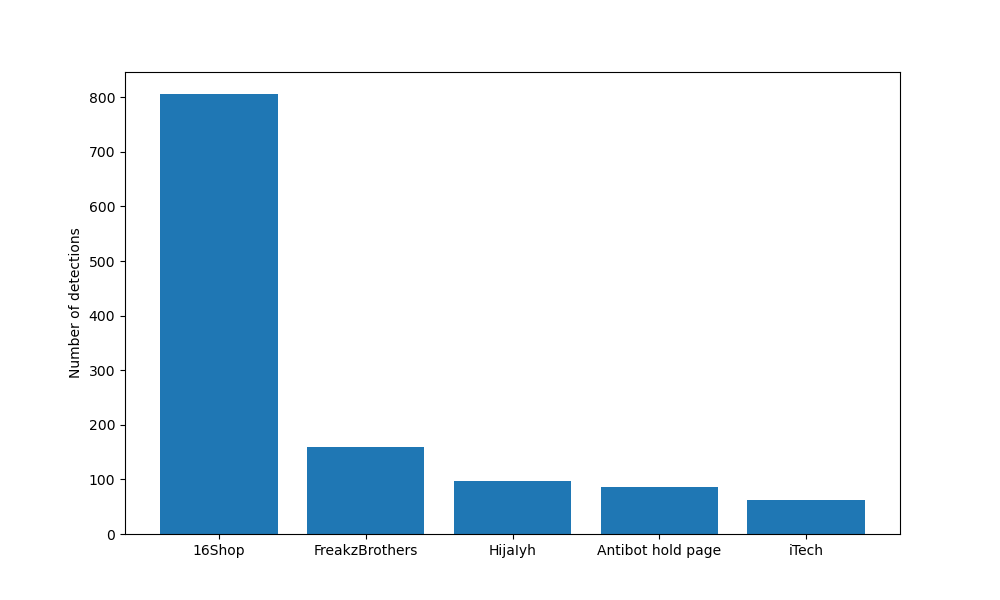
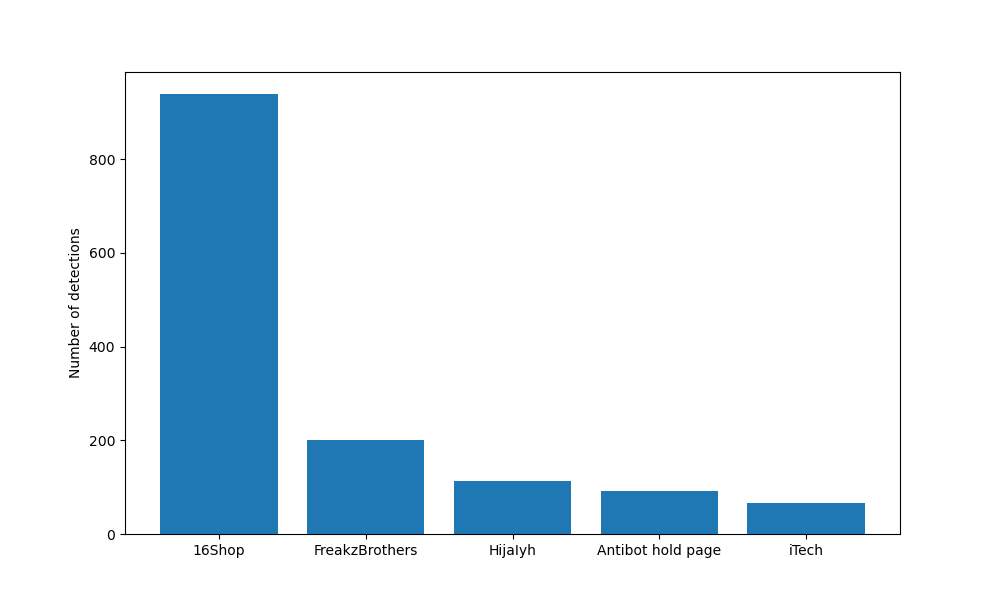
Corrected numbers/graph

diff --git a/_posts/2020-06-15-PhishingReel-Weekly-Report-7.md b/_posts/2020-06-15-PhishingReel-Weekly-Report-7.md
@@ -28,7 +28,7 @@ This report only contains summarised analysis of detections for the week. For fu
 | Unique panels    | 13    |   🔽   |
 | Unique IP's      | 244   |   🔼   |
 | Kits downloaded  | 453   |   🔽   |
-| Unique domains   | 679   |   🔼   |
+| Unique domains   | 775   |   🔼   |
 
 
 **Note:** Unique domains do not include subdomains.
@@ -38,7 +38,7 @@ This report only contains summarised analysis of detections for the week. For fu
 ![top kits graph](/assets/images/pr-weeklyreport/2020-06-15-fig1.png)
 
 {% capture notice-1 %}
-The top 5 kits were deployed a total of **1212** times over the past week.
+The top 5 kits were deployed a total of **1411** times over the past week.
 {% endcapture %}
 
 <div class="notice--info">
@@ -58,13 +58,13 @@ Out of the top 5 kits for the past week the date with the highest detections was
 
 ## 📧 Top 5 Emails
 
-| Emails                                               | Count |
-| ---------------------------------------------------- | ----: |
-| `yoi31834@gmail.com, ys@youngsister.com`             |    12 |
-| `babingentot@yandex.com, 16shop@agusgantengdong.com` |    11 |
-| `rezulthere@yandex.com`                              |    10 |
-| `spamlah@yandex.com`                                 |    10 |
-| `rezult.pucku@gmail.com, admin@16shop.us`            |    10 |
+| Emails                                       | Count |
+| -------------------------------------------- | ----: |
+| `demibuahati@yandex.ru, teguh@ganteng.cokkk` |    13 |
+| `yoi31834@gmail.com, ys@youngsister.com`     |    12 |
+| `spamlah@yandex.com`                         |    10 |
+| `rezult.pucku@gmail.com, admin@16shop.us`    |    10 |
+| `rezulthere@yandex.com`                      |    10 |
 
 
 {% capture notice-0 %}
@@ -96,13 +96,13 @@ Top IP's for the week which have had the most detections. Recurring IP's should 
 
 ## 🌐 Top 5 Domains
 
-| Domain                   | Count | Trend |
-| ------------------------ | ----: | :---: |
-| `gleeze.com`             |    66 |   ⏹   |
-| `giize.com`              |    47 |   🔼   |
-| `serveirc.com`           |    37 |   ⏹   |
-| `duckdns.org`            |    26 |   🆕   |
-| `servecounterstrike.com` |    19 |   🆕   |
+| Domain         | Count | Trend |
+| -------------- | ----: | :---: |
+| `gleeze.com`   |    72 |   ⏹   |
+| `giize.com`    |    54 |   🔼   |
+| `serveirc.com` |    45 |   ⏹   |
+| `duckdns.org`  |    26 |   🆕   |
+| `kozow.com`    |    25 |   🔽   |
 
 
 {% capture notice-ip %}
@@ -122,6 +122,7 @@ Top domains for the week where commercial phishing kits have been detected. Thes
 | `09bb0127e1951f268c5dc7114bde98d70e0ba592` |     7 |   ⏹   |
 | `6a90d3458486530752ff0147adf0d5619b55ce5c` |     6 |   🆕   |
 | `99e5bdcfdc69ee6a2638a9f3496ec039f74f20fa` |     6 |   🆕   |
+
 
 {% capture notice-hash %}
 Top hashes of known malicious kits downloaded by PhishingReel. These hashes can be used to pivot for extra data on sites such as VirusTotal, Any.Run and many others.
